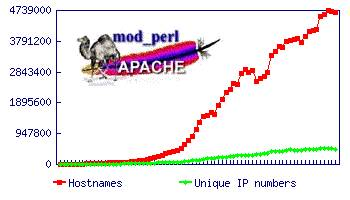
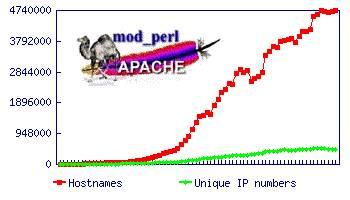
Aug-Sep 2003 stats update
git-svn-id: https://svn.apache.org/repos/asf/perl/modperl/docs/trunk@67365 13f79535-47bb-0310-9956-ffa450edef68

diff --git a/src/outstanding/stats/netcraft.html b/src/outstanding/stats/netcraft.html
@@ -24,13 +24,15 @@ survey.
 </p>
 
 <!-- monthly reports can be retrieved from
-http://www.netcraft.com/survey/Reports/0308/mod_perl.txt, adjust the
+http://www.netcraft.com/survey/Reports/0310/mod_perl.txt, adjust the
 year/month if needed. used to be
 http://www.netcraft.com/survey/Reports/200206/mod_perl.txt till July
 2002 -->
 
 <table cellpadding="3" border="1" cellspacing="0">
 <tr><th>Survey</th><th>Hostnames</th><th>Unique IP Addresses</th></tr>
+<tr><td> September 2003 </td><td>4739151</td><td>451753</td></tr>
+<tr><td> August 2003    </td><td>4705370</td><td>450392</td></tr>
 <tr><td> July 2003      </td><td>4691841</td><td>469832</td></tr>
 <tr><td> June 2003      </td><td>4699585</td><td>479872</td></tr>
 <tr><td> May 2003       </td><td>4738526</td><td>482235</td></tr>

diff --git a/src/outstanding/stats/securityspace.html b/src/outstanding/stats/securityspace.html
@@ -7,12 +7,12 @@
 <body bgcolor="#ffffff">
 
 <p> SecuritySpace provides an <a
-href="http://www.securityspace.com/s_survey/data/man.200307/apachemods.html?mod=cGVybA==">Apache
+href="http://www.securityspace.com/s_survey/data/man.200309/apachemods.html?mod=cGVybA==">Apache
 Module Report on mod_perl</a> comprising statistics and a graph based
 on the data collected by <a
 href="http://www.securityspace.com/">www.securityspace.com</a>. They
 also feature <a
-href="http://www.securityspace.com/s_survey/data/man.200307/apachemods.html">a
+href="http://www.securityspace.com/s_survey/data/man.200309/apachemods.html">a
 comparison</a> between all the Apache modules they survey.  </p>
 
 </body>
